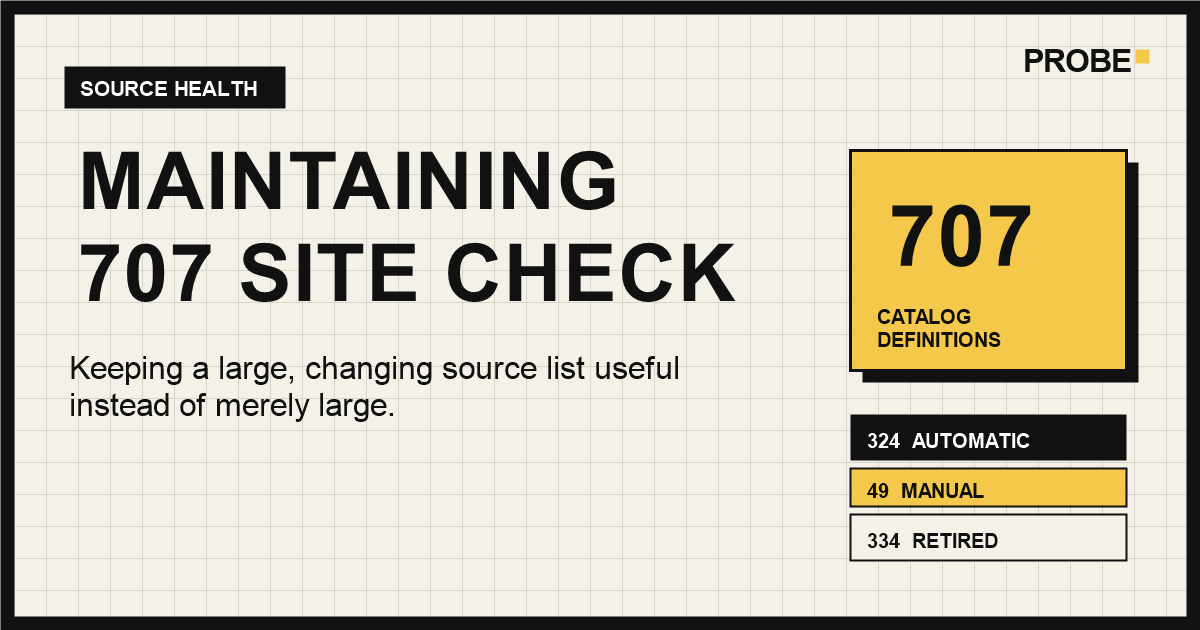
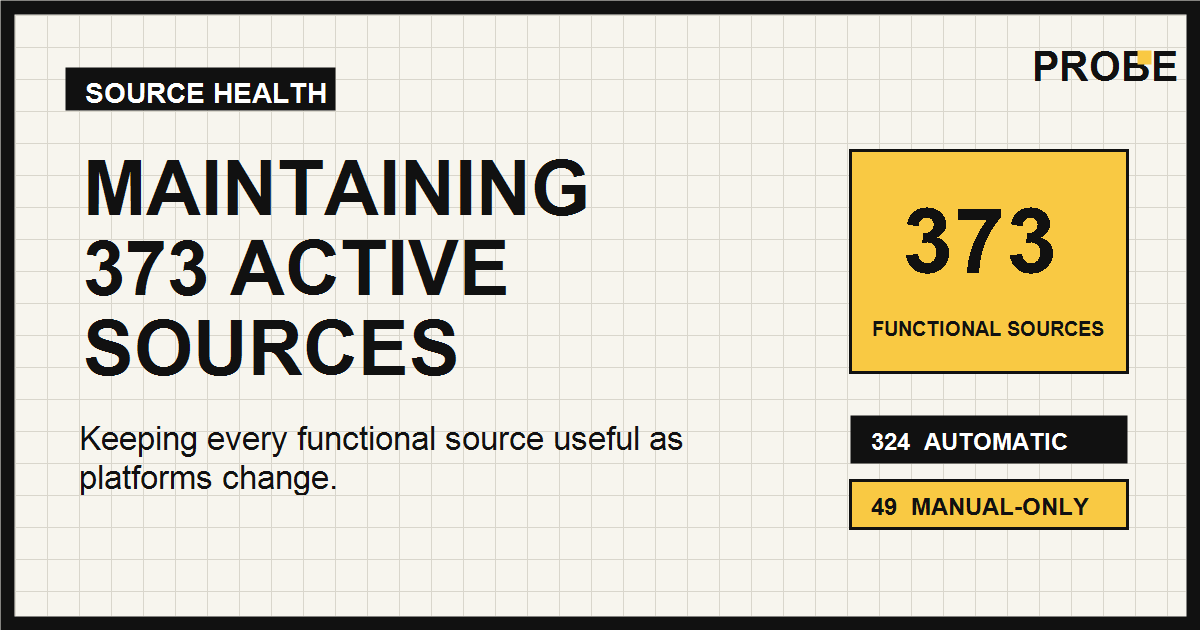
Unify source counts and hide config endpoint

Changed region(s): [[0.0308, 0.0302, 0.9867, 0.9651], [0.74, 0.3016, 0.8942, 0.4524]]

diff --git a/blog/maintaining-a-source-catalog.html b/blog/maintaining-a-source-catalog.html
@@ -3,13 +3,13 @@
 <head>
   <meta charset="UTF-8">
   <meta name="viewport" content="width=device-width, initial-scale=1.0">
-  <title>Maintaining 707 Site Checks | PROBE</title>
-  <meta name="description" content="How PROBE distinguishes automatic, manual-only, and defunct username sources while platforms continually change.">
+  <title>Maintaining 373 Active Sources | PROBE</title>
+  <meta name="description" content="How PROBE maintains 373 functional username sources as platforms continually change.">
   <link rel="canonical" href="https://usernameprobe.com/blog/maintaining-a-source-catalog">
   <link rel="icon" href="/favicon.svg" type="image/svg+xml">
-  <meta property="og:type" content="article"><meta property="og:title" content="Maintaining 707 Site Checks"><meta property="og:description" content="How PROBE keeps a large list of changing platforms useful."><meta property="og:url" content="https://usernameprobe.com/blog/maintaining-a-source-catalog">
-  <meta property="og:image" content="https://usernameprobe.com/social/maintaining-a-source-catalog.png?v=2"><meta property="og:image:secure_url" content="https://usernameprobe.com/social/maintaining-a-source-catalog.png?v=2"><meta property="og:image:type" content="image/png"><meta property="og:image:width" content="1200"><meta property="og:image:height" content="630"><meta property="og:image:alt" content="Maintaining 707 site checks, divided into automatic, manual, and retired sources.">
-  <meta property="article:published_time" content="2026-09-19"><meta name="twitter:card" content="summary_large_image"><meta name="twitter:title" content="Maintaining 707 Site Checks"><meta name="twitter:description" content="How PROBE keeps a large list of changing platforms useful."><meta name="twitter:image" content="https://usernameprobe.com/social/maintaining-a-source-catalog.png?v=2"><meta name="twitter:image:alt" content="Maintaining 707 site checks, divided into automatic, manual, and retired sources.">
+  <meta property="og:type" content="article"><meta property="og:title" content="Maintaining 373 Active Sources"><meta property="og:description" content="How PROBE keeps its functional username sources useful as platforms change."><meta property="og:url" content="https://usernameprobe.com/blog/maintaining-a-source-catalog">
+  <meta property="og:image" content="https://usernameprobe.com/social/maintaining-a-source-catalog.png?v=3"><meta property="og:image:secure_url" content="https://usernameprobe.com/social/maintaining-a-source-catalog.png?v=3"><meta property="og:image:type" content="image/png"><meta property="og:image:width" content="1200"><meta property="og:image:height" content="630"><meta property="og:image:alt" content="Maintaining 373 active sources, including automatic checks and manual-only links.">
+  <meta property="article:published_time" content="2026-09-19"><meta name="twitter:card" content="summary_large_image"><meta name="twitter:title" content="Maintaining 373 Active Sources"><meta name="twitter:description" content="How PROBE keeps its functional username sources useful as platforms change."><meta name="twitter:image" content="https://usernameprobe.com/social/maintaining-a-source-catalog.png?v=3"><meta name="twitter:image:alt" content="Maintaining 373 active sources, including automatic checks and manual-only links.">
   <link rel="preconnect" href="https://fonts.googleapis.com"><link rel="preconnect" href="https://fonts.gstatic.com" crossorigin><link rel="stylesheet" href="https://fonts.googleapis.com/css2?family=Inter:wght@300;400;500;600;700&family=Outfit:wght@400;500;600;700&family=Bebas+Neue&display=swap">
   <link rel="stylesheet" href="/styles.css?v=10"><link rel="stylesheet" href="/editorial.css?v=1">
 </head>
@@ -17,12 +17,12 @@
   <nav class="navbar editorial-nav"><div class="nav-container"><a href="/" class="nav-logo">PROBE</a><a class="editorial-nav-back" href="/blog/">All posts</a></div></nav>
   <main class="editorial-main article-main">
     <article itemscope itemtype="https://schema.org/BlogPosting">
-      <header class="article-header"><p class="editorial-kicker">Keeping sources current</p><h1 class="editorial-title article-title" itemprop="headline">Maintaining 707 Site Checks</h1><p class="editorial-deck" itemprop="description">A long list means little if half of its links no longer give useful answers.</p><div class="article-meta"><time itemprop="datePublished" datetime="2026-09-19">19 September 2026</time><span>5 min read</span></div></header>
+      <header class="article-header"><p class="editorial-kicker">Keeping sources current</p><h1 class="editorial-title article-title" itemprop="headline">Maintaining 373 Active Sources</h1><p class="editorial-deck" itemprop="description">A source count only matters when every included link remains useful.</p><div class="article-meta"><time itemprop="datePublished" datetime="2026-09-19">19 September 2026</time><span>5 min read</span></div></header>
       <div class="article-copy" itemprop="articleBody">
         <p>Lists of username sites go out of date quickly. Platforms close, profile addresses change, APIs disappear, and public pages move behind login screens. Keeping every old entry would make PROBE look bigger while making its results less useful.</p>
-        <div class="article-metric" aria-label="Source catalog breakdown"><div><strong>707</strong><span>catalog definitions</span></div><div><strong>373</strong><span>active sources</span></div><div><strong>334</strong><span>defunct definitions</span></div></div>
-        <h2>Three kinds of source</h2>
-        <p>PROBE currently has 324 automatic sources and 49 that must be opened manually. Automatic sources give us enough information to make a useful decision. Manual-only sources are still valuable links, but without logging in we cannot reliably tell whether a username exists. The remaining 334 old entries stay in the historical list but are not checked in live searches.</p>
+        <div class="article-metric" aria-label="Functional source breakdown"><div><strong>373</strong><span>functional sources</span></div><div><strong>324</strong><span>automatic checks</span></div><div><strong>49</strong><span>manual-only links</span></div></div>
+        <h2>Two kinds of source</h2>
+        <p>PROBE currently has 324 automatic sources and 49 that must be opened manually, for 373 functional sources in total. Automatic sources give us enough information to make a useful decision. Manual-only sources remain useful links, but without logging in we cannot reliably tell whether a username exists.</p>
         <h2>Test, do not assume</h2>
         <p>We test each automatic source with an account known to exist and unusual usernames expected not to exist. A source is fully verified only when it handles the available real account and both missing accounts without returning an unclear answer. The latest test fully verified 177 of 324 automatic sources.</p>
         <p>The test accounts also need maintenance. During manual review, we found accounts that had been deleted or renamed. A failed test therefore tells us to investigate; it does not automatically mean PROBE is broken.</p>

diff --git a/index.html b/index.html
@@ -4,18 +4,18 @@
   <meta charset="UTF-8">
   <meta name="viewport" content="width=device-width, initial-scale=1.0">
   <title>PROBE | Username Intelligence</title>
-  <meta name="description" content="Search a username across hundreds of social, developer, gaming, forum, and creative platforms with evidence-aware results.">
+  <meta name="description" content="Search a username across 373 functional social, developer, gaming, forum, and creative sources with evidence-aware results.">
   <meta name="theme-color" content="#ffffff">
   <link rel="canonical" href="https://usernameprobe.com/">
   <link rel="icon" href="/favicon.svg" type="image/svg+xml">
   <meta property="og:type" content="website">
   <meta property="og:site_name" content="PROBE">
   <meta property="og:title" content="PROBE | Username Intelligence">
-  <meta property="og:description" content="Search a username across hundreds of platforms with evidence-aware results.">
+  <meta property="og:description" content="Search a username across 373 functional sources with evidence-aware results.">
   <meta property="og:url" content="https://usernameprobe.com/">
   <meta name="twitter:card" content="summary">
   <meta name="twitter:title" content="PROBE | Username Intelligence">
-  <meta name="twitter:description" content="Search a username across hundreds of platforms with evidence-aware results.">
+  <meta name="twitter:description" content="Search a username across 373 functional sources with evidence-aware results.">
   <link rel="preconnect" href="https://fonts.googleapis.com">
   <link rel="preconnect" href="https://fonts.gstatic.com" crossorigin>
   <link rel="stylesheet" href="https://fonts.googleapis.com/css2?family=Inter:wght@300;400;500;600;700&family=Outfit:wght@400;500;600;700&family=Bebas+Neue&display=swap">
@@ -66,7 +66,7 @@
       </div>
       <div class="quick-checks" id="quickChecks" aria-live="polite"></div>
 
-      <p class="search-hint" id="searchHint"><span id="siteCount">377</span> platforms <!-- hint updated by JS --></p>
+      <p class="search-hint" id="searchHint"><span id="siteCount">373</span> platforms <!-- hint updated by JS --></p>
       <p class="search-error" id="searchError" style="display:none"></p>
       <!-- Turnstile security widget (invisible mode — only shows UI if challenge needed) -->
       <div id="turnstileContainer" style="margin-top:0.25rem;"></div>
@@ -225,7 +225,7 @@
         <h2 class="about-heading">Public clues.<br>Clearer context.</h2>
       </div>
       <div class="about-copy" itemprop="description">
-        <p>PROBE helps you find where a public username appears online. It checks <strong id="heroCount">377</strong> sources across social networks, developer communities, forums, gaming platforms, marketplaces, and the wider web.</p>
+        <p>PROBE helps you find where a public username appears online. It checks <strong id="heroCount">373</strong> sources across social networks, developer communities, forums, gaming platforms, marketplaces, and the wider web.</p>
         <p>Each result is a useful lead, not proof that two accounts belong to the same person. When a site does not give us a clear answer, we say so and leave the final check to you.</p>
         <a class="text-link" href="/blog/measuring-username-search-accuracy">Read how we measure accuracy <span aria-hidden="true">↗</span></a>
       </div>
@@ -338,6 +338,6 @@
     </div>
   </div>
 
-  <script src="script.js?v=8" defer></script>
+  <script src="script.js?v=9" defer></script>
 </body>
 </html>

diff --git a/server.js b/server.js
@@ -62,12 +62,6 @@ const AUX_RATE_LIMITED_PATHS = new Set([
 // Render's Environment tab produces a secret that LOOKS right but makes
 // every siteverify call fail with 'invalid-input-secret' silently.
 const TURNSTILE_SECRET  = (process.env.TURNSTILE_SECRET || '').trim(); // set in Render env vars
-// Public widget sitekey — safe to expose to the client (site keys are not
-// secret, unlike TURNSTILE_SECRET). Defaults to the real production widget
-// created for this project; override via TURNSTILE_SITEKEY if it's ever
-// rotated. Still falls back to Cloudflare's official test key only if
-// someone explicitly sets TURNSTILE_SITEKEY to an empty string.
-const TURNSTILE_SITEKEY = process.env.TURNSTILE_SITEKEY || '0x4AAAAAADFTcr011fUWBkXS';
 // The `action` each surface's widget render() call uses (script.js) —
 // cross-checked against siteverify's response below so a token minted for
 // one form can't be replayed against another (e.g. a scan token reused to
@@ -3323,17 +3317,6 @@ const server = http.createServer((req, res) => {
     return;
   }
 
-  /* ── Public runtime config for the client ────────────────────────────── */
-  if (pathname === '/api/config') {
-    res.writeHead(200, { 'Content-Type': 'application/json' });
-    return res.end(JSON.stringify({
-      turnstileSiteKey: TURNSTILE_SITEKEY,
-      turnstileActions: TURNSTILE_ACTIONS,
-      emailProvider: 'resend',
-      emailNotificationsConfigured: getEmailConfig().configured,
-    }));
-  }
-
   /* ── Serve sites.json for client ────────────────────────────────────── */
   if (pathname === '/sites.json') {
     return serveStatic(res, path.join(__dirname, 'sites.json'));
@@ -3461,6 +3444,11 @@ const server = http.createServer((req, res) => {
 
     tick();
     return;
+  }
+
+  if (pathname === '/api' || pathname.startsWith('/api/')) {
+    res.writeHead(404, { 'Content-Type': 'text/plain; charset=utf-8' });
+    return res.end('Not Found');
   }
 
   /* ── Static files ───────────────────────────────────────────────────── */

diff --git a/script.js b/script.js
@@ -104,13 +104,8 @@ let dorkResults = [];
 let activeStatusFilter = null; // null = no filter, else a status string
 
 /* ── Turnstile state ─────────────────────────────────────────────────── */
-// Real production sitekey/actions are fetched from /api/config at load time
-// (see loadTurnstileConfig below); these are only fallbacks for local dev
-// when that endpoint hasn't responded yet. Each surface (scan/contact/
-// report) uses its own action + widget so a token minted for one form
-// can't be replayed against another — the server cross-checks this.
-let TURNSTILE_SITEKEY  = '0x4AAAAAADFTcr011fUWBkXS';
-let TURNSTILE_ACTIONS  = { scan: 'scan', contact: 'contact', report: 'report' };
+const TURNSTILE_SITEKEY = '0x4AAAAAADFTcr011fUWBkXS';
+const TURNSTILE_ACTIONS = { scan: 'scan', contact: 'contact', report: 'report' };
 
 // Per-surface widget state: token from the callback, widget handle (for
 // reset()), and whether it's been mounted yet.
@@ -119,21 +114,6 @@ const _ts = {
   contact: { token: null, widgetId: null, rendered: false },
   report : { token: null, widgetId: null, rendered: false },
 };
-
-async function loadTurnstileConfig() {
-  try {
-    const res = await fetch('/api/config');
-    if (res.ok) {
-      const cfg = await res.json();
-      if (cfg && typeof cfg.turnstileSiteKey === 'string' && cfg.turnstileSiteKey) {
-        TURNSTILE_SITEKEY = cfg.turnstileSiteKey;
-      }
-      if (cfg && cfg.turnstileActions && typeof cfg.turnstileActions === 'object') {
-        TURNSTILE_ACTIONS = Object.assign({}, TURNSTILE_ACTIONS, cfg.turnstileActions);
-      }
-    }
-  } catch (_) { /* keep fallback test key */ }
-}
 
 // Mounts the widget for `surface` ('scan' | 'contact' | 'report') into
 // `containerId` the first time it's needed, rather than at page load, so
@@ -2201,5 +2181,4 @@ document.addEventListener('DOMContentLoaded', () => {
   // Fetch the sitekey ahead of time so it's ready the moment the widget
   // needs to be rendered (on Scan click) — the widget itself is mounted
   // lazily, not here, so it isn't shown before the user does anything.
-  loadTurnstileConfig();
 });

diff --git a/roadmap.html b/roadmap.html
@@ -41,7 +41,7 @@
         </article>
         <article class="roadmap-stop">
           <button class="milestone" aria-expanded="false" aria-controls="roadmap-baseline"><span class="milestone-top"><span class="milestone-state shipped">Shipped</span><span class="milestone-toggle" aria-hidden="true">+</span></span><span class="milestone-title">A measured starting point</span></button>
-          <div class="milestone-detail" id="roadmap-baseline" hidden><p>Across 947 tests, PROBE was correct in 95.34% of the cases where it gave a clear answer. It reached a clear answer 72.44% of the time and produced no false matches in the test set. We also removed 334 dead or unreliable site definitions.</p></div>
+          <div class="milestone-detail" id="roadmap-baseline" hidden><p>Across 947 tests, PROBE was correct in 95.34% of the cases where it gave a clear answer. It reached a clear answer 72.44% of the time and produced no false matches in the test set.</p></div>
         </article>
         <article class="roadmap-stop">
           <button class="milestone" aria-expanded="false" aria-controls="roadmap-hardening"><span class="milestone-top"><span class="milestone-state progress">In progress</span><span class="milestone-toggle" aria-hidden="true">+</span></span><span class="milestone-title">Fixing unreliable site checks</span></button>

diff --git a/blog/index.html b/blog/index.html
@@ -69,8 +69,8 @@
       <a class="post-row" href="/blog/maintaining-a-source-catalog" itemprop="blogPost">
         <time class="post-date" datetime="2026-09-19">19 Sep 2026</time>
         <div>
-          <h2>Maintaining 707 Site Checks</h2>
-          <p>Why we removed 334 dead or unreliable site checks, and how we keep the remaining ones useful.</p>
+          <h2>Maintaining 373 Active Sources</h2>
+          <p>How we keep PROBE's functional sources accurate as platforms change.</p>
         </div>
         <span class="post-arrow" aria-hidden="true">↗</span>
       </a>
